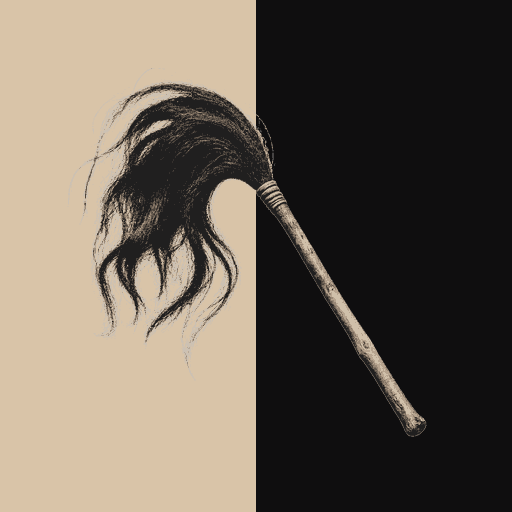
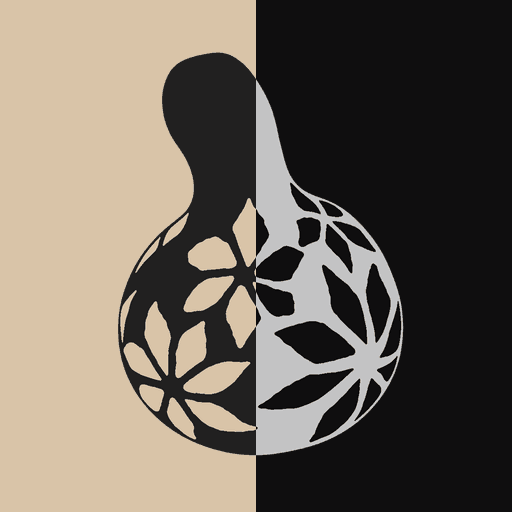
feat: add gourd brand and Nova fonts

Changed region(s): [[0.1562, 0.0938, 0.8438, 0.9062]]

diff --git a/scripts/generate-brand-assets.ts b/scripts/generate-brand-assets.ts
@@ -7,9 +7,9 @@ const ASSET_DIR = new URL("src/assets/", ROOT);
 const DOCS_DIR = new URL("docs/images/", ROOT);
 const PUBLIC_DIR = new URL("public/", ROOT);
 
-const MASTER_NAME = "super-hn-fly-whisk.png";
+const MASTER_NAME = "super-hn-gourd.png";
 const SOCIAL_NAME = "super-hn-social.png";
-const HERO_NAME = "super-hn-fly-whisk-banner.png";
+const HERO_NAME = "super-hn-gourd-banner.png";
 const MASTER_SIZE = 1_024;
 const SOCIAL_WIDTH = 1_280;
 const SOCIAL_HEIGHT = 640;
@@ -32,18 +32,25 @@ const PALETTE = {
   parchment: "#d9c4a8",
   ink: "#212020",
   silver: "#c3c3c4",
-  line: "#a79077",
   darkCanvas: "#0f0e0f",
 } as const;
 
-const MARK_COLORS = [
-  PALETTE.parchment,
-  PALETTE.ink,
-  PALETTE.silver,
-  PALETTE.line,
-].map(toRgb);
+const MARK_COLORS = [PALETTE.parchment, PALETTE.ink].map(toRgb);
 
 type Rgb = Readonly<{ r: number; g: number; b: number }>;
+type MarkTheme = Readonly<{ body: Rgb; pattern: Rgb }>;
+
+const MASTER_INK = toRgb(PALETTE.ink);
+const MARK_THEMES = {
+  light: {
+    body: MASTER_INK,
+    pattern: toRgb(PALETTE.parchment),
+  },
+  dark: {
+    body: toRgb(PALETTE.silver),
+    pattern: toRgb(PALETTE.darkCanvas),
+  },
+} as const satisfies Record<"dark" | "light", MarkTheme>;
 
 function assetPath(name: string): string {
   return fileURLToPath(new URL(name, ASSET_DIR));
@@ -93,7 +100,7 @@ async function importMaster(source: string): Promise<void> {
     const blue = data[offset + 2] ?? 0;
     const range = Math.max(red, green, blue) - Math.min(red, green, blue);
 
-    // Remove a generated white checkerboard while retaining silver details.
+    // Remove a generated neutral backdrop without dropping parchment details.
     if (
       Math.min(red, green, blue) >= BACKGROUND_MIN &&
       range <= BACKGROUND_RANGE
@@ -123,8 +130,35 @@ async function importMaster(source: string): Promise<void> {
     .toFile(assetPath(MASTER_NAME));
 }
 
-async function mark(size: number): Promise<Buffer> {
-  return sharp(assetPath(MASTER_NAME))
+async function mark(
+  size: number,
+  theme: MarkTheme = MARK_THEMES.light,
+): Promise<Buffer> {
+  const { data, info } = await sharp(assetPath(MASTER_NAME))
+    .ensureAlpha()
+    .raw()
+    .toBuffer({ resolveWithObject: true });
+
+  // Recolor the same master for each system color scheme.
+  for (let offset = 0; offset < data.length; offset += info.channels) {
+    const isBody =
+      data[offset] === MASTER_INK.r &&
+      data[offset + 1] === MASTER_INK.g &&
+      data[offset + 2] === MASTER_INK.b;
+    const color = isBody ? theme.body : theme.pattern;
+
+    data[offset] = color.r;
+    data[offset + 1] = color.g;
+    data[offset + 2] = color.b;
+  }
+
+  return sharp(data, {
+    raw: {
+      width: info.width,
+      height: info.height,
+      channels: 4,
+    },
+  })
     .resize(size, size, { fit: "contain" })
     .png(PNG_OPTIONS)
     .toBuffer();
@@ -136,7 +170,17 @@ async function splitCanvas(
   markSize: number,
 ): Promise<Buffer> {
   const left = Math.floor(width / 2);
-  const logo = await mark(markSize);
+  const logoLeft = Math.floor((width - markSize) / 2);
+  const darkSliceLeft = left - logoLeft;
+  const lightLogo = await mark(markSize);
+  const darkLogo = await sharp(await mark(markSize, MARK_THEMES.dark))
+    .extract({
+      left: darkSliceLeft,
+      top: 0,
+      width: markSize - darkSliceLeft,
+      height: markSize,
+    })
+    .toBuffer();
 
   return sharp({
     create: {
@@ -160,8 +204,13 @@ async function splitCanvas(
         top: 0,
       },
       {
-        input: logo,
-        left: Math.floor((width - markSize) / 2),
+        input: lightLogo,
+        left: logoLeft,
+        top: Math.floor((height - markSize) / 2),
+      },
+      {
+        input: darkLogo,
+        left,
         top: Math.floor((height - markSize) / 2),
       },
     ])
@@ -211,6 +260,7 @@ async function generate(): Promise<void> {
 
   const favicon16 = await mark(16);
   const favicon32 = await mark(32);
+  const favicon32Dark = await mark(32, MARK_THEMES.dark);
   const apple = await appIcon(180);
   const icon192 = await appIcon(192);
   const icon512 = await appIcon(512);
@@ -222,6 +272,7 @@ async function generate(): Promise<void> {
 
   await Promise.all([
     writeFile(new URL("favicon-32.png", ASSET_DIR), favicon32),
+    writeFile(new URL("favicon-32-dark.png", ASSET_DIR), favicon32Dark),
     writeFile(new URL("apple-touch-icon.png", ASSET_DIR), apple),
     writeFile(new URL("icon-192.png", ASSET_DIR), icon192),
     writeFile(new URL("icon-512.png", ASSET_DIR), icon512),

diff --git a/src/lib/assets.test.ts b/src/lib/assets.test.ts
@@ -4,17 +4,22 @@ import sharp from "sharp";
 
 const ASSET_DIR = new URL("../assets/", import.meta.url);
 const ROOT = new URL("../../", import.meta.url);
+const MASTER_NAME = "super-hn-gourd.png";
+const SOCIAL_NAME = "super-hn-social.png";
+const HERO_PATH = "docs/images/super-hn-gourd-banner.png";
+const MARK_COLORS = new Set(["33,32,32", "217,196,168"]);
 const ASSET_SPECS = {
-  "super-hn-fly-whisk.png": {
+  [MASTER_NAME]: {
     maxBytes: 60_000,
     width: 1_024,
     height: 1_024,
   },
   "apple-touch-icon.png": { maxBytes: 5_000, width: 180, height: 180 },
   "favicon-32.png": { maxBytes: 1_000, width: 32, height: 32 },
+  "favicon-32-dark.png": { maxBytes: 1_000, width: 32, height: 32 },
   "icon-192.png": { maxBytes: 5_000, width: 192, height: 192 },
   "icon-512.png": { maxBytes: 20_000, width: 512, height: 512 },
-  "super-hn-social.png": { maxBytes: 30_000, width: 1_280, height: 640 },
+  [SOCIAL_NAME]: { maxBytes: 30_000, width: 1_280, height: 640 },
 } as const;
 
 describe("brand images", () => {
@@ -31,11 +36,30 @@ describe("brand images", () => {
     });
   }
 
+  test("master uses only the two theme tones", async () => {
+    const image = await readFile(new URL(MASTER_NAME, ASSET_DIR));
+    const { data, info } = await sharp(image)
+      .ensureAlpha()
+      .raw()
+      .toBuffer({ resolveWithObject: true });
+    const colors = new Set<string>();
+
+    for (let offset = 0; offset < data.length; offset += info.channels) {
+      const alpha = data[offset + 3] ?? 0;
+
+      if (alpha === 0) continue;
+
+      colors.add(
+        `${data[offset] ?? 0},${data[offset + 1] ?? 0},${data[offset + 2] ?? 0}`,
+      );
+    }
+
+    expect(colors).toEqual(MARK_COLORS);
+  });
+
   test("GitHub hero matches the social image", async () => {
-    const social = await readFile(new URL("super-hn-social.png", ASSET_DIR));
-    const hero = await readFile(
-      new URL("docs/images/super-hn-fly-whisk-banner.png", ROOT),
-    );
+    const social = await readFile(new URL(SOCIAL_NAME, ASSET_DIR));
+    const hero = await readFile(new URL(HERO_PATH, ROOT));
 
     expect(hero).toEqual(social);
   });

diff --git a/tests/e2e/navigation.e2e.ts b/tests/e2e/navigation.e2e.ts
@@ -140,23 +140,28 @@ test("ships only the transition runtime", async ({ page }) => {
   expect(scripts).toBeLessThanOrEqual(2);
 });
 
-test("uses the newspaper palettes and Alike", async ({ page }) => {
+test("uses the newspaper palettes and Nova fonts", async ({ page }) => {
   await page.emulateMedia({ colorScheme: "light" });
   await page.goto(TOP_PATH);
 
   const light = await page.evaluate(() => {
     const style = getComputedStyle(document.documentElement);
+    const mono = document.createElement("pre");
+    document.body.append(mono);
+
     return {
       background: style.backgroundColor,
       color: style.color,
       font: style.fontFamily,
+      monoFont: getComputedStyle(mono).fontFamily,
     };
   });
   expect(light).toMatchObject({
     background: "rgb(217, 196, 168)",
     color: "rgb(33, 32, 32)",
   });
-  expect(light.font).toContain("Alike");
+  expect(light.font).toContain("Nova Cut");
+  expect(light.monoFont).toContain("Nova Mono");
 
   await page.emulateMedia({ colorScheme: "dark" });
   const dark = await page.evaluate(() => {

diff --git a/astro.config.ts b/astro.config.ts
@@ -29,11 +29,32 @@ export default defineConfig({
   },
   fonts: [
     {
-      cssVariable: "--font-alike",
+      cssVariable: "--font-nova-cut",
       display: "swap",
       fallbacks: ["ui-serif", "Georgia", "Cambria", "Times New Roman", "serif"],
       formats: ["woff2"],
-      name: "Alike",
+      name: "Nova Cut",
+      optimizedFallbacks: true,
+      provider: fontProviders.google(),
+      styles: ["normal"],
+      subsets: ["latin"],
+      weights: [400],
+    },
+    {
+      cssVariable: "--font-nova-mono",
+      display: "swap",
+      fallbacks: [
+        "ui-monospace",
+        "SFMono-Regular",
+        "Menlo",
+        "Monaco",
+        "Consolas",
+        "Liberation Mono",
+        "Courier New",
+        "monospace",
+      ],
+      formats: ["woff2"],
+      name: "Nova Mono",
       optimizedFallbacks: true,
       provider: fontProviders.google(),
       styles: ["normal"],

diff --git a/src/styles/global.css b/src/styles/global.css
@@ -11,7 +11,7 @@
   --domain-size-adjustment: 0.36pt;
   color-scheme: light;
   font-family:
-    var(--font-alike), ui-serif, Georgia, Cambria, "Times New Roman", serif;
+    var(--font-nova-cut), ui-serif, Georgia, Cambria, "Times New Roman", serif;
 }
 
 @media (prefers-color-scheme: dark) {
@@ -87,6 +87,15 @@ pre {
   max-width: 100%;
   overflow-x: auto;
   white-space: pre-wrap;
+}
+
+code,
+kbd,
+pre,
+samp {
+  font-family:
+    var(--font-nova-mono), ui-monospace, SFMono-Regular, Menlo, Monaco,
+    Consolas, "Liberation Mono", "Courier New", monospace;
 }
 
 .site-shell {

diff --git a/README.md b/README.md
@@ -1,6 +1,6 @@
 # Super HN
 
-![Super HN fly-whisk emblem](docs/images/super-hn-fly-whisk-banner.png)
+![Super HN gourd emblem](docs/images/super-hn-gourd-banner.png)
 
 A small, server-rendered Hacker News reader built with Astro and deployed on Cloudflare Workers.
 
@@ -21,7 +21,7 @@ A small, server-rendered Hacker News reader built with Astro and deployed on Clo
 
 - Astro server rendering on Cloudflare Workers
 - A separately deployed private Cloudflare data service
-- Astro Fonts with self-hosted Alike files sourced from Google Fonts
+- Astro Fonts with self-hosted Nova Cut and Nova Mono files sourced from Google Fonts
 - Astro route caching backed by Cloudflare's CDN cache
 - Official Hacker News data with HackerWeb and Algolia outage fallbacks
 - Bun, TypeScript 7, ESLint, Prettier, and Playwright
@@ -85,7 +85,7 @@ bun run deploy
 
 ## Brand
 
-The source logo is [`src/assets/super-hn-fly-whisk.png`](src/assets/super-hn-fly-whisk.png). The original dithered image draws on the wooden handle and flowing animal-tail tuft of the Luo [fly whisk](https://artsandculture.google.com/asset/fly-whisk/_gFKI5qOz6yVZQ). Derived favicons, application icons, the social image, and this README banner use the application palette:
+The source logo is [`src/assets/super-hn-gourd.png`](src/assets/super-hn-gourd.png). Its two-tone bottle-gourd silhouette and botanical pattern draw on traditional decorated gourds. Derived favicons, application icons, the social image, and this README banner use the application palette:
 
 - light canvas `#D9C4A8`
 - light ink `#212020`
